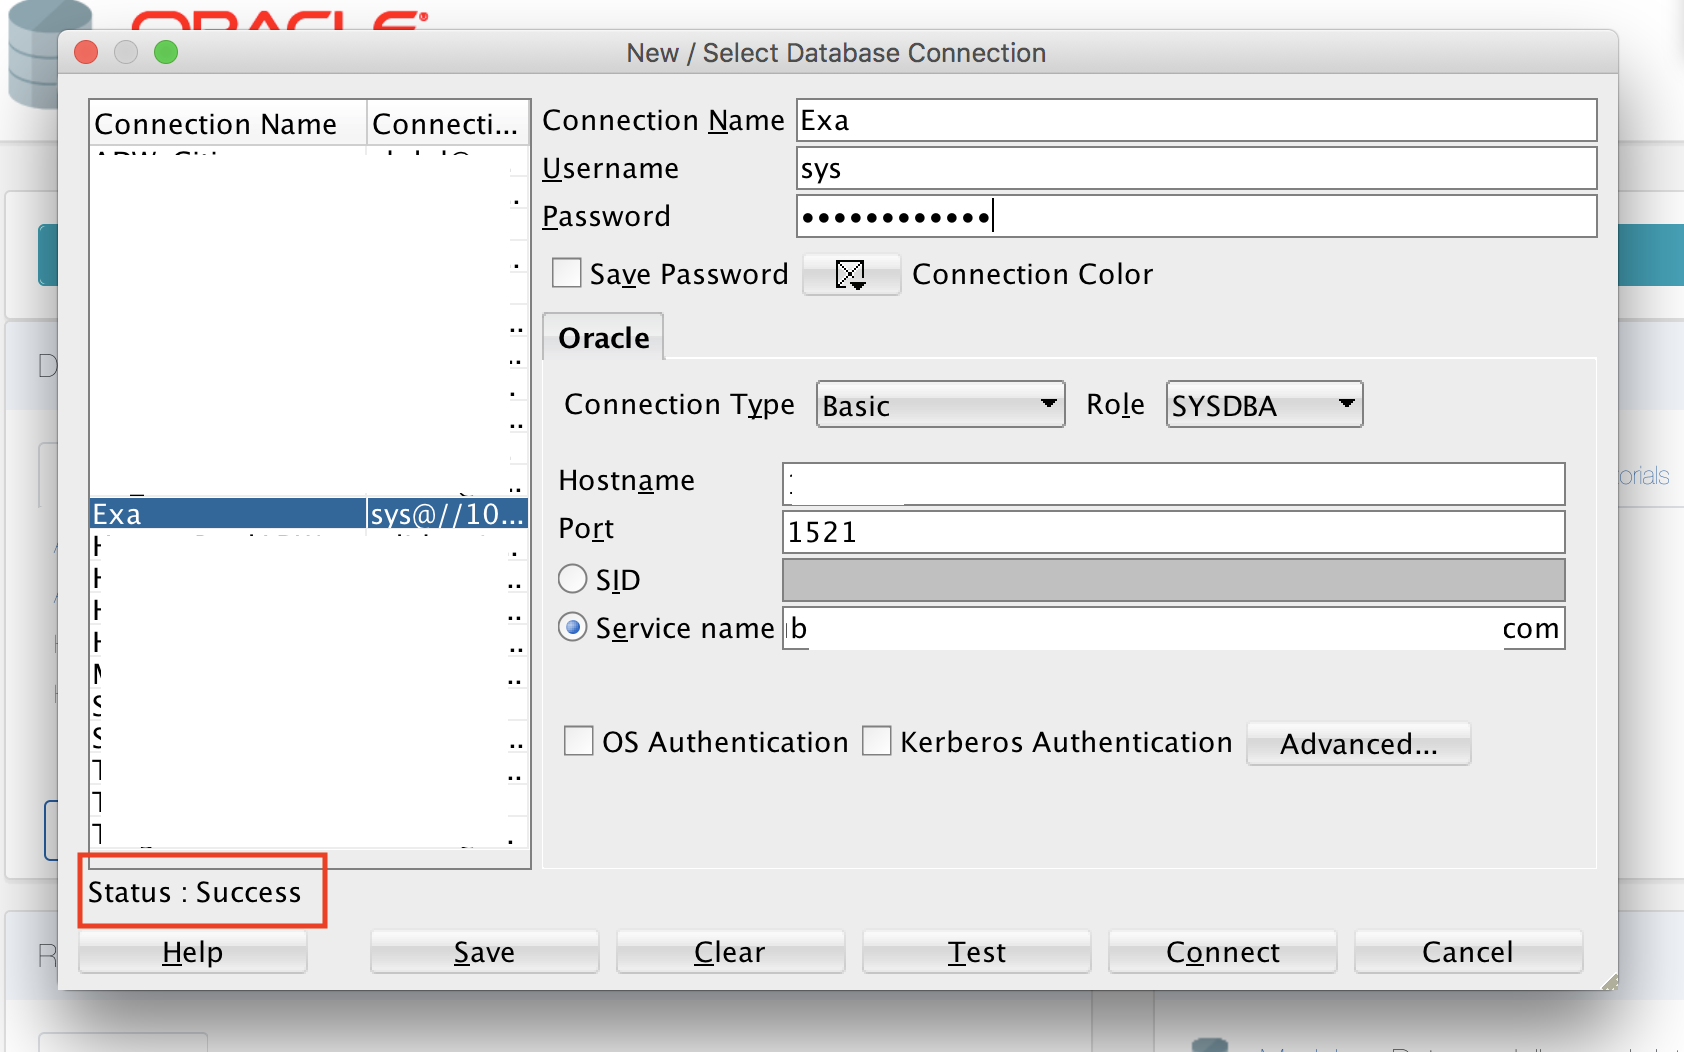
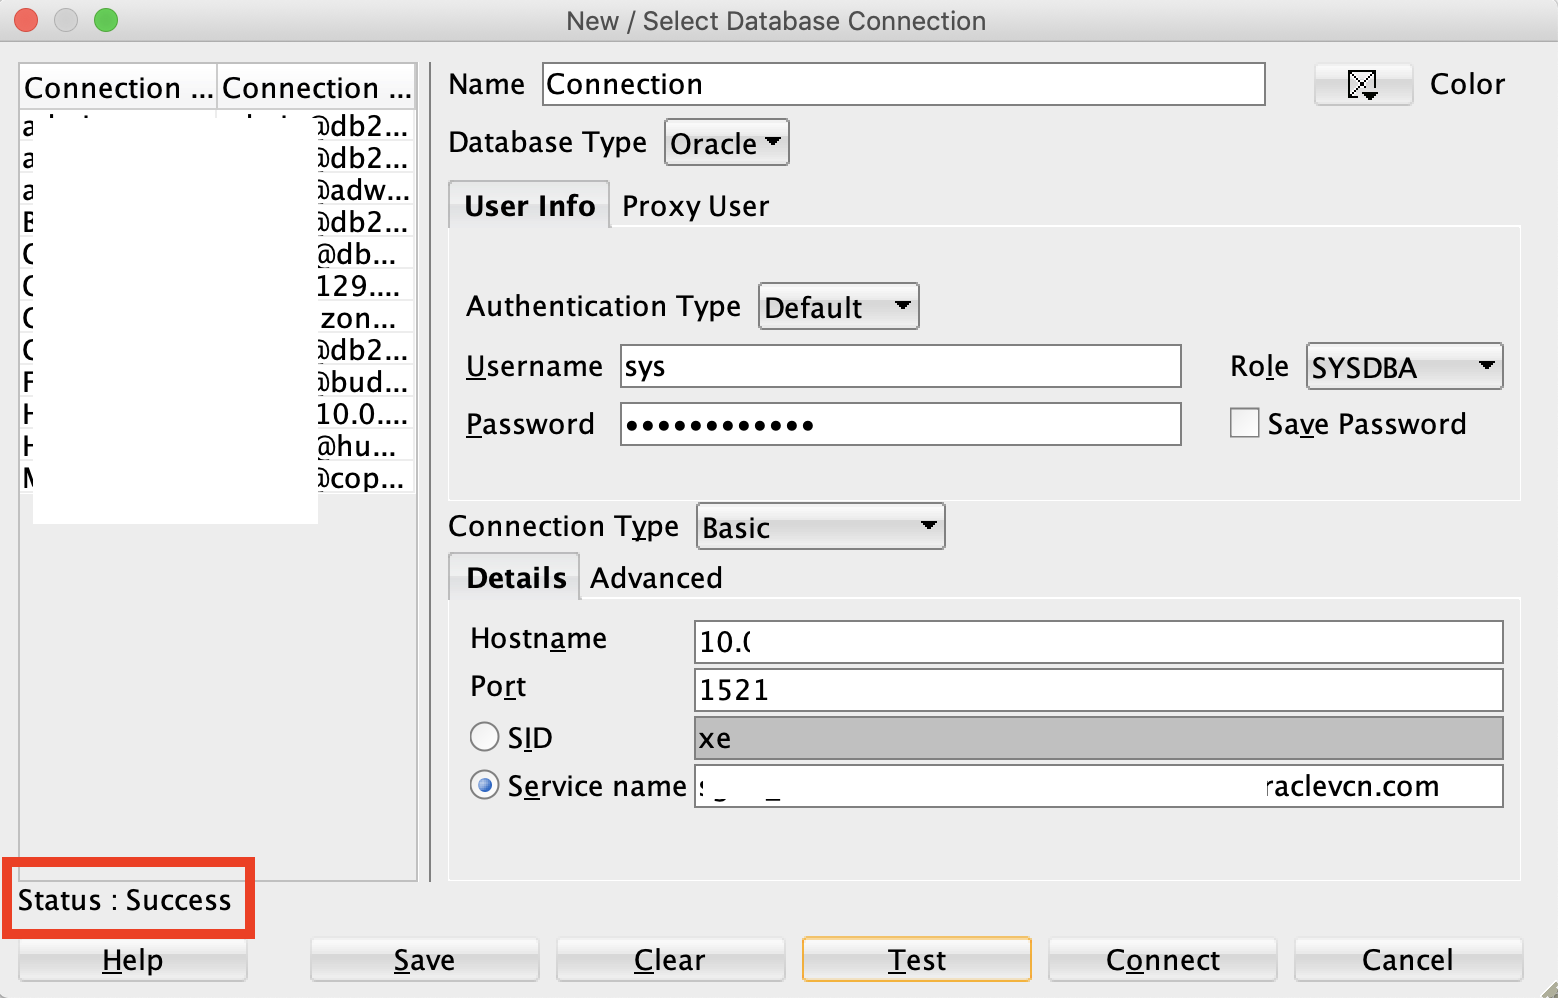
Changed Compute Provisioning Steps and Screenshots

Changed region(s): [[0.0, 0.0, 1.0, 1.0], [0.9859, 0.9629, 1.0, 1.0], [0.2465, 0.8076, 0.2773, 0.8387]]

diff --git a/exacs-QA/ConfigureVPN.md b/exacs-QA/ConfigureVPN.md
@@ -17,7 +17,7 @@ As a network admin,
 
 - An Oracle Cloud Infrastructure account with privileges to create a compute instance and network resources
 - A pre-provisioned ExaCS instance in a private network
-- A pre-provisioned Virtual Cloud Network with public and private subnets set up with appropriate security lists. Refer to [Lab 1](?lab=lab-1-preparing-private-data-center-o)
+- A pre-provisioned Virtual Cloud Network with public and private subnets set up with appropriate security lists. Refer to [Lab 1](?lab=lab-1-preparing-private-data-center-o).
 
 
 The following illustration shows a network topology that can be used to provide secure access to your EXACS infrastructure.
@@ -35,7 +35,7 @@ The following illustration shows a network topology that can be used to provide 
 ## Steps
 
 
-### **STEP 1: Launch a CentOS VM for the OpenVPN server**
+### **STEP 1:   OS VM for the OpenVPN server**
 
 - Login to the Oracle Cloud Infrastructure using your tenancy, userId and password. 
 
@@ -43,144 +43,151 @@ The following illustration shows a network topology that can be used to provide 
 
 - Once logged in, Click on **Menu**, **Compute**, **Instances**, and **Create Instance**
 
-![](./images/Infra/configure_vpn/createCompute.png " ")
+    ![](./images/Infra/configure_vpn/createCompute.png " ")
 
+- Name your instance and click on **Change Image** to select a new image.
+    ![](./images/Infra/configure_vpn/compute1.png " ")
 
+- Select **CentOS7** as your image source and scroll down to click on **Select Image**.
+    ![](./images/Infra/configure_vpn/compute2.png " ")
+    ![](./images/Infra/configure_vpn/compute3.png " ")
 
-
-- Name your instance and select **CentOS7** as your image source 
-
-![](./images/Infra/configure_vpn/ComputeImage.png " ")
-
-- Select **Virtual Machine** and add your public SSH key file 
-
-![](./images/Infra/configure_vpn/ComputeType.png " ")
+- Select any Availability Domain and make sure you select **VM.Standard2.1** as your shape for the compute instance. If not, click on **Change Chape** and select the appropriate shape.
+    ![](./images/Infra/configure_vpn/compute4.png " ")
 
 -  Next, select the network for your VPN Server
     - Select the compartment and VCN where your exadata infrastructure is provisioned
     - Select the compartment where your public subnet is provisioned
     - Pick public subnet from the drop down
-    - Select "Assign a public IP address"
- 
-    
-![](./images/Infra/configure_vpn/ComputeNetwork.png " ")
+    - Select **Assign a public IP address**
+    ![](./images/Infra/configure_vpn/compute5.png " ")
+
+- Add your ssh public key.
+    ![](./images/Infra/configure_vpn/compute6.png " ")
+
+- Click on **Create** and within a few minutes your CentOS server will be ready with a public IP for ssh access.
+    ![](./images/Infra/configure_vpn/compute7.png " ")
+
+- To find out the public IP address of the compute instance, go to your cloud console and navigate to the web page in which you have the information about the compute instance. On the right side as shown in the picture below, you will find the public IP address of your compute machine.
+    ![](./images/Infra/configure_vpn/compute8.png " ")
+
 
 #### Note that while your ExaCS infrastructure and VPN server are in the same VCN, the ExaCS is in a private subnet while the VPN server is deployed in a public subnet for access over the internet. 
-
-
-
-
--  Click Create and within a few minutes your CentOS server will be ready with a public IP for ssh access
-
 
 
 ### **STEP 2: Install and Configure OpenVPN Server**
 
 -   Use the following to ssh into centOS vm and download the openVPN rpm package
 
-```
-<copy>ssh opc@&lt;public_ipAddress_of_your_centOS_VM&gt</copy>;
-```
+    ```
+    <copy>ssh opc@public_ipAddress_of_your_centOS_VM</copy>;
+    ```
 
-```
-<copy>wget http://swupdate.openvpn.org/as/openvpn-as-2.5.2-CentOS7.x86_64.rpm</copy>
-```
+    ```
+    <copy>wget http://swupdate.openvpn.org/as/openvpn-as-2.5.2-CentOS7.x86_64.rpm</copy>
+    ```
    
-![](./images/Infra/configure_vpn/openvpn_configure.jpeg " ")
+    ![](./images/Infra/configure_vpn/openvpn_configure.jpeg " ")
 
 -   Use the RPM command to install the package
 
-```
-<copy>sudo rpm -ivh openvpn-as-2.5.2-CentOS7.x86_64.rpm</copy>
-```
+    ```
+    <copy>sudo rpm -ivh openvpn-as-2.5.2-CentOS7.x86_64.rpm</copy>
+    ```
 
-![](./images/Infra/configure_vpn/openvpn_url.jpeg " ")
+    ![](./images/Infra/configure_vpn/openvpn_url.jpeg " ")
 
 -   Change the password of OpenVPN Server
 
-```
-<copy>sudo passwd openvpn</copy>
-```
+    ```
+    <copy>sudo passwd openvpn</copy>
+    ```
 
 -    From your local browser, access the admin UI console of your VPN Server (**https://<*public_ipAddress_of_your_centOS_VM*>:943/admin**), using the username 'openvpn' and the password for OpenVPN server.
- 
-
-![](./images/Infra/configure_vpn/openvpn_login.png " ")
+    ![](./images/Infra/configure_vpn/openvpn_login.png " ")
 
 -   Once you are logged in, click **Network Settings** and replace the **Hostname or IP address** with the public IP of the OpenVPN Server Instance
 
-![](./images/Infra/configure_vpn/openvpn_network.png " ")
+    ![](./images/Infra/configure_vpn/openvpn_network.png " ")
 
-****Save your settings before advancing to the VPN settings page**
+    ****Save your settings before advancing to the VPN settings page**
 
-Click **VPN settings** and scroll down to the section labeled **Routing**
+- Click **VPN settings** and scroll down to the section labeled **Routing**. Here we configure how traffic from your VPN client (for example, your personal laptop) shoud be NATed and how DNS resolution should occur.
 
-Here we configure how traffic from your VPN client (for example, your personal laptop) shoud be NATed and how DNS resolution should occur.
+- Configure this section as shown in the screenshot below. 
+    - Choose **Yes using NAT**
+    - Provide CIDR ranges for your application and exadata subnets. For this lab, give 10.0.2.0/24 for your client subnet.
+    - Choose **No** for the question: **Should client internet traffic be routed through the VPN?**
 
-Configure this section as shown in the screenshot below. 
-- Choose **Yes using NAT**
-- Provide CIDR ranges for your application and exadata subnets
-- Choose **No** for the question: **Should client internet traffic be routed through the VPN?**
+    ![](./images/Infra/configure_vpn/vpn_NAT.png " ")
 
-![](./images/Infra/configure_vpn/vpn_NAT.png " ")
 
-Scroll down and configure the DNS settings as shown below.
 
-![](./images/Infra/configure_vpn/vpn_routing2.png " ")
+- Scroll down and configure the DNS settings as shown below.
 
-**Save your setting before advancing to the VPN settings page**
+    ![](./images/Infra/configure_vpn/vpn_routing2.png " ")
+
+    **Save your setting before advancing to the VPN settings page**
 
 - In the **Advanced VPN** section, ensure that the option **Should clients be able to communicate with each other on the VPN IP Network?** is set to **Yes**
 
-![](./images/Infra/configure_vpn/openvpn_advancedVPN.png " ")
+    ![](./images/Infra/configure_vpn/openvpn_advancedVPN.png " ")
 
 
-Note: Once you have applied your changes, click **Save Settings** once again. Then click **Update Running Server** to push your new configuration to the OpenVPN server.
+    Note: Once you have applied your changes, click **Save Settings** once again. Then click **Update Running Server** to push your new configuration to the OpenVPN server.
 
-![](./images/Infra/configure_vpn/vpn_routing3.png " ")
+    ![](./images/Infra/configure_vpn/vpn_routing3.png " ")
 
 
 ### **STEP 3: Install OpenVPN Client**
 
 - Launch your OpenVPN Access Server Client UI at **https://*<Your_VPN_Server_Public_IP>*:943** and download the OpenVPN client for your platforms.
     
-![](./images/Infra/configure_vpn/openvpn_client.png " ")
+    ![](./images/Infra/configure_vpn/openvpn_client.png " ")
 
     
 
 - Once the installation process is complete, you will see an OpenVPN icon in your OS taskbar. Right-Click this icon to bring up the context menu to start your OpenVPN connection.
 
-![](./images/Infra/configure_vpn/openvpn_conn.png " ")
+    ![](./images/Infra/configure_vpn/openvpn_conn.png " ")
 
-![](./images/Infra/configure_vpn/openvpn_client_conn.png " ")
+    ![](./images/Infra/configure_vpn/openvpn_client_conn.png " ")
     
-##### Note: IP should be Public IP for OpenVPN Compute Instance
+    ##### Note: IP should be Public IP for OpenVPN Compute Instance
 
 - Clicking **Connect** brings up a window asking for the OpenVPN username and password. Enter the credentials for your **openvpn** user and click **Connect** to establish a VPN tunnel.
 
-![](./images/Infra/configure_vpn/openvpn_clientwindow.png " ")
+    ![](./images/Infra/configure_vpn/openvpn_clientwindow.png " ")
 
-You may also setup your VPN server with multiple users. Follow the OpenVPN configuration guide to setup additional users.
+    You may also setup your VPN server with multiple users. Follow the OpenVPN configuration guide to setup additional users.
 
 ### **STEP 4: Connect SQL Developer to your ExaCS database**
+- One of the pieces of information we need to connect to your ExaCS database is its service name. Follow below steps to construct the service name.
+- Service name is database-unique-name.host-domain-name. To find out database-unique-name, go to your cloud console and navigate to the web page where you find information about your ExaCS instance.
+- Find host-domain-name as shown in the picture below.
+    ![](./images/Infra/configure_vpn/host-domain-name.png " ")
+
+- Scroll down and find your database's database-unique-name under **Database Unique Name** column as shown in the picture below.
+    ![](./images/Infra/configure_vpn/db-unique-name.png " ")
 
 
-Launch SQL Developer and connect as shown below:
-- **Connection Name**: Enter a name for your ExaCS connection
-- **Username**: Enter **sys**
-- **Password**: Enter the password for one of the databases in the ExaCS
-- **Connection Type**: Select **Basic**
-- **Role**: Select **SYSDBA**
-- **Hostname**: Enter the private IP of any of the nodes of your ExaCS instance
-- **Port**: Enter **1521**
-- **Service name**: Construct the service name as <*database-unique-name*>*.*<*Host_Domain_Name*>
+- Now that we have all the information, launch SQL Developer and connect as shown below:
+    - **Name**: Enter a name for your ExaCS connection
+    - **Database Type**: Select **Oracle**
+    - **Authentication Type**: Select **Default**
+    - **Username**: Enter **sys**
+    - **Role**: Select **SYSDBA**
+    - **Password**: Enter the password for one of the databases in the ExaCS
+    - **Connection Type**: Select **Basic**
+    - **Hostname**: Enter the private IP of any of the nodes of your ExaCS instance
+    - **Service name**: Construct the service name as *database-unique-name.Host_Domain_Name*
 
 
-![](./images/Infra/configure_vpn/exa_conn.png " ")
+    ![](./images/Infra/configure_vpn/exa_conn.png " ")
 
 
-Once you test, you should see "Success" in Status.
+- Once you test, you should see "Success" in Status.
 
-![](./images/Infra/configure_vpn/sqldev_success.png " ")
+    ![](./images/Infra/configure_vpn/sqldev_success.png " ")
 
 Congratulations! You just configured a secure VPN connection into your private Exadata Cloud Service infrastructure.
